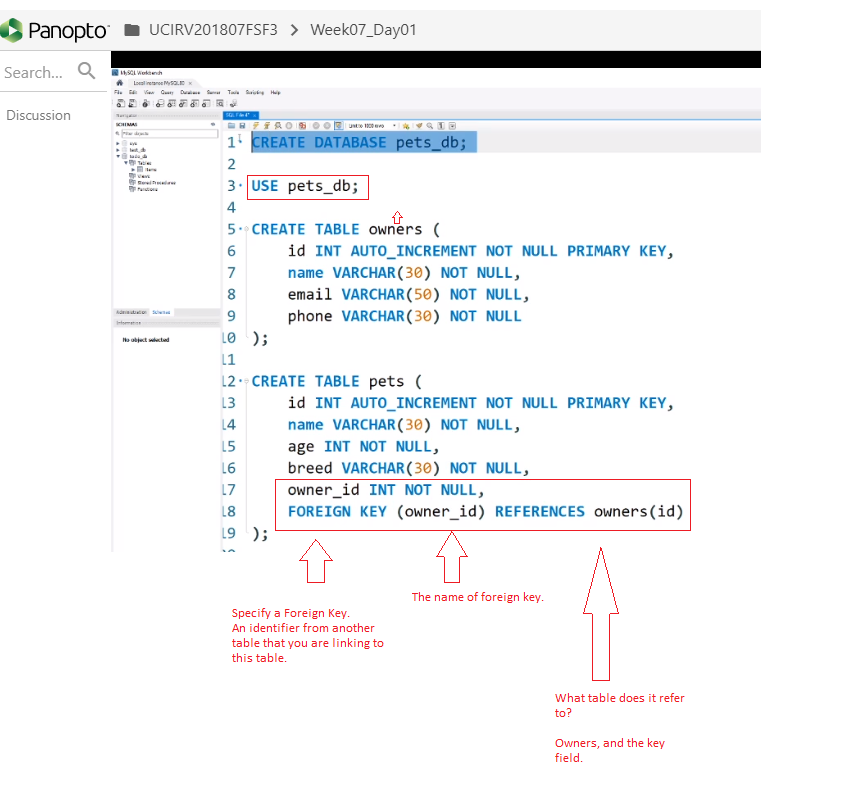
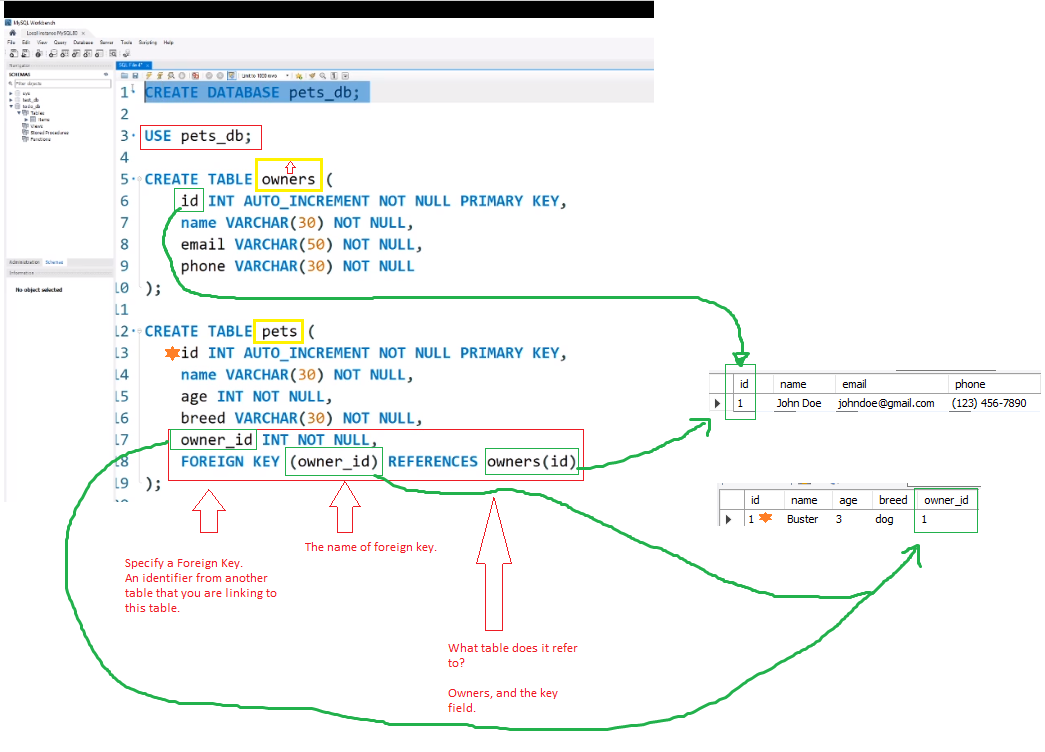
day 1 done

diff --git a/index.html b/index.html
@@ -1,56 +1,106 @@
 <!DOCTYPE html>
 <html lang="en">
+
 <head>
     <meta charset="UTF-8">
     <meta name="viewport" content="width=device-width, initial-scale=1.0">
     <title>Document</title>
+<style>
+#red {
+    color: red;
+}
+
+</style>
+
 </head>
+
 <body>
     <a href="index.html">Day1</a>
     <a href="day2.html">Day2</a>
     <a href="day3.html">Day3</a>
     <a href="day4.html">Day4</a>
     <a href="day5.html">Day5</a>
-    
-<h1>Day 01</h1>
-<img src="./pics/day11.png" alt="day11">
+
+    <h1>Day 01</h1>
+    <img src="./pics/day11.png" alt="day11">
+    <hr>
+    <h1>Make a basic database in MySQL</h1>
+
+    <p>
+        Give the pets and the owners an "id" with the following line: <br><br>
+        id INT AUTO-INCREMENT NOT NULL PRIMARY KEY, </p>
+    <p>Now you can make a relationship between certain owners and pets</p>
+
+
+    <br>
+    <br>
+    <img src="./pics/day12.png" alt="">
+    <hr>
+    <h1>Add the use statement, and Owners needs to be above pets. (for Hiearchy in the function)</h1>
+    <br>
+    <p>Give the pets the following lines so that they have an ID:</p>
+    <br>
+    <p>owner_id INT NOT NULL</p>
+    <p>FOREIGN KEY (owner_id) REFERENCES owners(id)</p>
+    <br>
+    <p>"NOT NULL" means every pet must have an owner. There are no pets without owners in this databse</p>
+    <br>
+    <img src="./pics/day13.png" alt="">
+    <hr>
+    <h1>Now let's create an owner and a pet</h1>
+    <br>
+    <h2>**************** create owner *************</h2>
+    <img src="./pics/day14.png" alt="">
+    <br>
+    <h2>**************** create pet ************</h2>
+    <img src="./pics/day15.png" alt="">
+    <hr>
+    <h1>Now we want to get information about Buster's Owner, John Doe. We want his name email and phone number. We need
+        a join query for this.</h1>
+    <br>
+    <img src="./pics/day16.png" alt="">
+    <hr>
+    <h1>Use the following code:</h1>
+    <br>
+    <img src="./pics/day17.png" alt="">
+    <hr>
+    <h1>Now to try a different type of join, we have to create a second owner. Create Jane Doe.</h1>
+    <p>Make the following changes to the code:</p>
+    <ul>
+        <li>change the inner join to left join. Result: nothing different, because there is no such thing as a pet that
+            does not have an owner id.</li>
+        <li>Now swap out the owners and pets. Change from pets to from owners and left join owners to left join pets.
+            Result: in this case there is an owner that doesn't have a pet. So it will show NULL for all the pet fields,
+            but it will show Jane Doe's info.</li>
+        <li>Now use the same example above and switch to a right join.  Result:  nothing will come up because there is not a single pet without an owner.</li>
+    </ul>
+    <hr>
+    <h1>Starting a new GITHUB for the employee manager app, based on this database.</h1>
+    <br>
+    <p>Schema.sql inside sql folder:
+    </p>
+
+    <img src="./pics/day18.png" alt="">
+    <br>
+    <p>seed.sql inside sql folder:</p>
+    <hr>
+    <img src="./pics/day19.png" alt="">
+
+    <h1>Bring in your index.js file in the root folder:
+        <a href="https://github.com/QFults/employeeManager/blob/master/index.js">LINK TO code on GITHUB</a>
+    </h1>
+    <h2>Watch Monday 8/24 video, after lunch at the 3:00 hour mark for the details on the code above. </h2>
+
+    <h4 id="red">.</h4>
 <hr>
-<h1>Make a basic database in MySQL</h1>
-
-<p>
-Give the pets and the owners an "id" with the following line: <br><br>
-id INT AUTO-INCREMENT NOT NULL PRIMARY KEY, </p>
-<p>Now you can make a relationship between certain owners and pets</p>
-
-
-<br>
-<br>
-<img src="./pics/day12.png" alt="">
-<hr>
-<h1>Add the use statement, and Owners needs to be above pets.  (for Hiearchy in the function)</h1>
-<br>
-<p>Give the pets the following lines so that they have an ID:</p>
-<br>
-<p>owner_id INT NOT NULL</p>
-<p>FOREIGN KEY (owner_id) REFERENCES owners(id)</p>
-<br>
-<p>"NOT NULL" means every pet must have an owner.  There are no pets without owners in this databse</p>
-<br>
-<img src="./pics/day13.png" alt="">
-<hr>
-<h1>Now let's create an owner and a pet</h1>
-<br>
-<h2>**************** create owner *************</h2>
-<img src="./pics/day14.png" alt="">
-<br>
-<h2>**************** create pet ************</h2>
-<img src="./pics/day15.png" alt="">
-<hr>
 
 
 
 
 
 
+
+    Quinton's Github Link <a href="https://github.com/QFults/employeeManager">Click</a>
 </body>
+
 </html>
